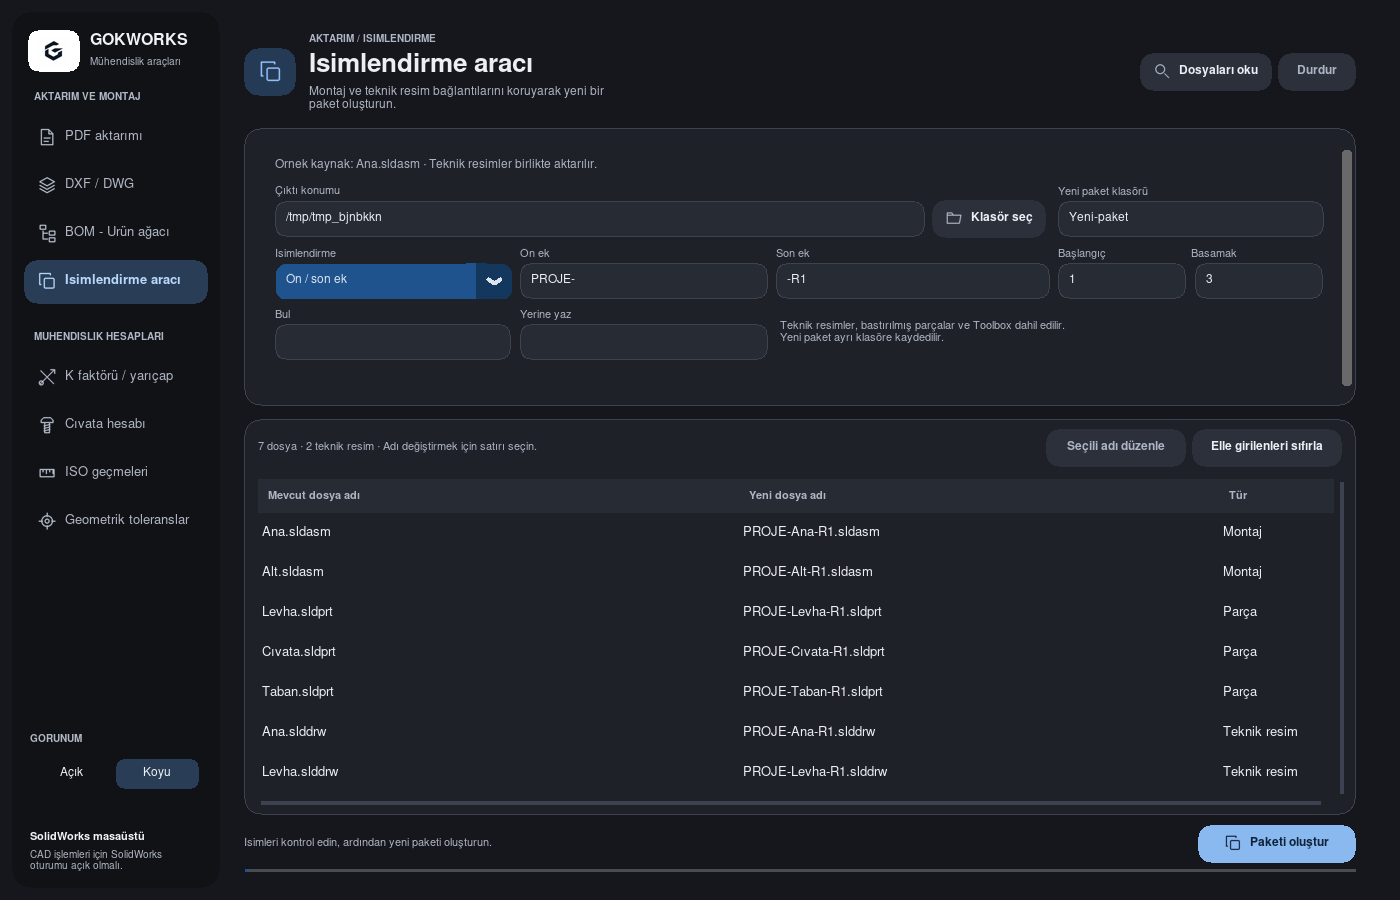
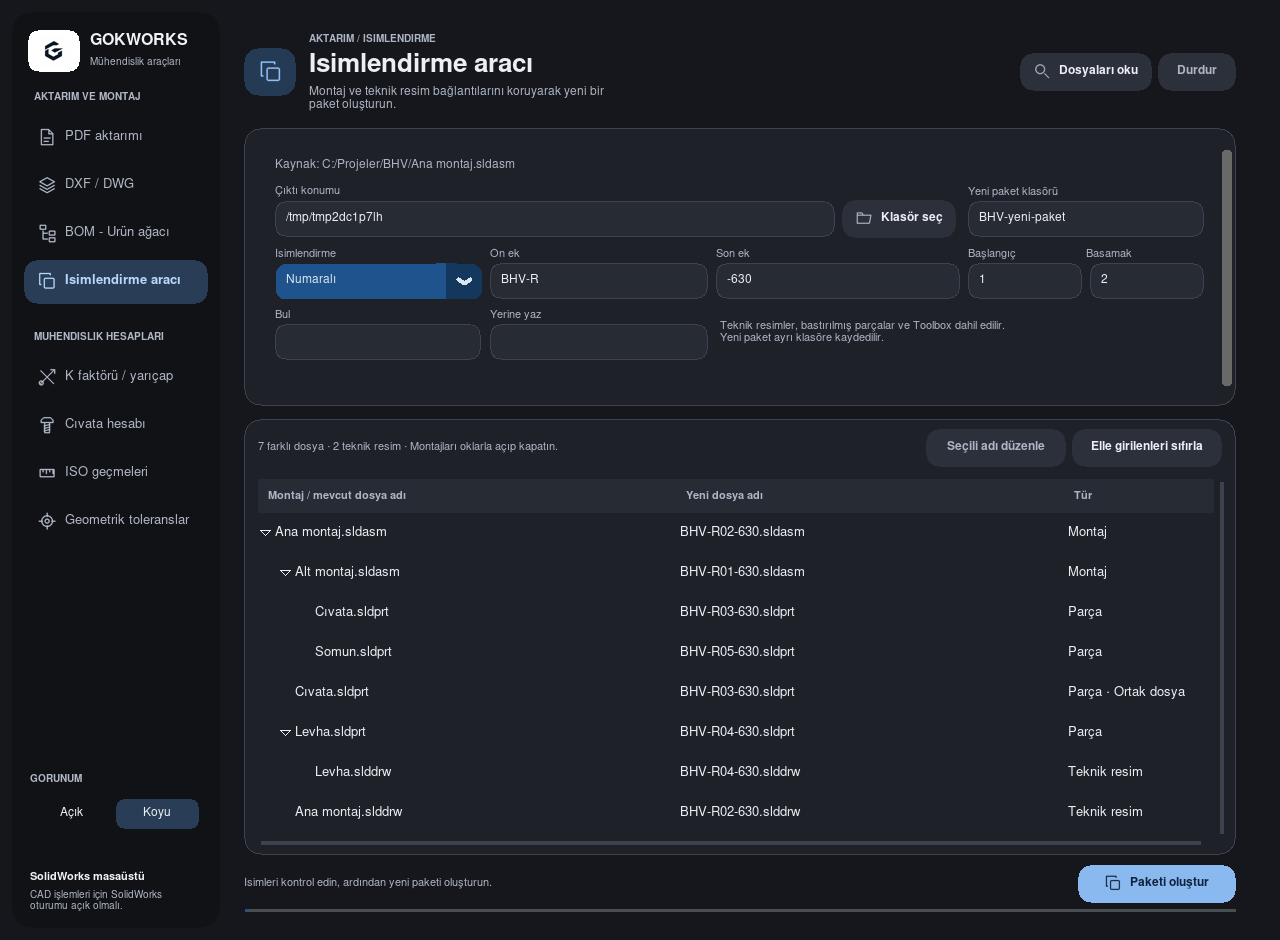
Show naming preview as an expandable assembly tree

diff --git a/naming/window.py b/naming/window.py
@@ -12,6 +12,7 @@ import customtkinter as ctk
 from gui.rendering import configure_changed, hide_grid
 from gui.theme import PANEL, INPUT, BORDER, TEXT, MUTED, RED, AMBER, SUCCESS, UI_FONT
 from naming.exporter import NameCollision, Rules, plan_names, worker
+from naming.hierarchy import document_rows
 
 
 class NamingView:
@@ -103,8 +104,8 @@ class NamingView:
         widgets['edit'].grid(row=0, column=1, padx=(6, 0))
         widgets['reset'] = self._button(toolbar, 'Elle girilenleri sıfırla', self._reset_naming_overrides, width=150)
         widgets['reset'].grid(row=0, column=2, padx=(6, 0))
-        table = ttk.Treeview(card, columns=('old', 'new', 'kind'), show='headings', selectmode='browse', style='Gok.Treeview')
-        for key, title, width in (('old', 'Mevcut dosya adı', 300), ('new', 'Yeni dosya adı', 300), ('kind', 'Tür', 115)):
+        table = ttk.Treeview(card, columns=('new', 'kind'), show='tree headings', selectmode='browse', style='Gok.Treeview')
+        for key, title, width in (('#0', 'Montaj / mevcut dosya adı', 330), ('new', 'Yeni dosya adı', 300), ('kind', 'Tür', 150)):
             table.heading(key, text=title, anchor='w')
             table.column(key, width=width, minwidth=100, stretch=key != 'kind')
         table.grid(row=1, column=0, sticky='nsew', padx=(12, 0))
@@ -113,7 +114,7 @@ class NamingView:
         hbar = ctk.CTkScrollbar(card, orientation='horizontal', command=table.xview, height=10, fg_color=PANEL, button_color=BORDER)
         hbar.grid(row=2, column=0, sticky='ew', padx=12, pady=(0, 8))
         table.configure(yscrollcommand=bar.set, xscrollcommand=hbar.set)
-        table.bind('<Double-1>', lambda event: self._edit_naming_row())
+        table.bind('<Double-1>', self._double_click_naming_row)
         table.bind('<Return>', lambda event: self._edit_naming_row())
         table.bind('<<TreeviewSelect>>', lambda event: self._naming_buttons())
         widgets['table'] = table
@@ -186,7 +187,7 @@ class NamingView:
             self.naming_plan = plan_names(self.naming_snapshot, destination, rules, self.naming_overrides)
             widgets['valid'] = bool(values['parent'] and Path(values['parent']).is_dir() and not destination.exists())
             draws = sum(doc.kind == 'Teknik resim' for doc in self.naming_snapshot.documents)
-            widgets['summary'].configure(text=f'{len(self.naming_plan)} dosya · {draws} teknik resim · Adı değiştirmek için satırı seçin.')
+            widgets['summary'].configure(text=f'{len(self.naming_plan)} farklı dosya · {draws} teknik resim · Montajları oklarla açıp kapatın.')
             widgets['status'].configure(text='İsimleri kontrol edin, ardından yeni paketi oluşturun.' if widgets['valid'] else
                                           'Çıktı konumunu ve kullanılmamış bir paket klasörü adı seçin.', text_color=MUTED)
         except NameCollision as error:
@@ -205,8 +206,16 @@ class NamingView:
         previous = widgets.pop('render_id', None)
         if previous is not None:
             self.after_cancel(previous)
-        widgets['render'] = iter(enumerate(self.naming_plan))
-        widgets['table'].delete(*widgets['table'].get_children())
+        table = widgets['table']
+        if widgets.get('hierarchy_snapshot') is not self.naming_snapshot:
+            widgets['hierarchy_snapshot'] = self.naming_snapshot
+            widgets['hierarchy_rows'] = document_rows(self.naming_snapshot)
+        rows = widgets['hierarchy_rows'] if self.naming_plan else ()
+        widgets['row_indices'] = {row.iid: row.index for row in rows}
+        # Updating names in place preserves collapsed branches, selection and scroll.
+        widgets['render'] = iter(rows)
+        if not rows:
+            table.delete(*table.get_children())
         self._paint_naming_rows()
         self._naming_buttons()
 
@@ -216,14 +225,35 @@ class NamingView:
         widgets = self.naming_widgets
         widgets.pop('render_id', None)
         deadline = time.perf_counter()+.006
-        for index, entry in widgets['render']:
-            widgets['table'].insert('', 'end', iid=str(index), values=(PureWindowsPath(entry.source).name,
-                PureWindowsPath(entry.destination).name, self.naming_snapshot.documents[index].kind))
+        for row in widgets['render']:
+            entry = self.naming_plan[row.index]
+            kind = self.naming_snapshot.documents[row.index].kind
+            if row.shared:
+                kind += ' · Ortak dosya'
+            elif row.reference:
+                kind += ' · Referans'
+            table = widgets['table']
+            content = dict(text=PureWindowsPath(entry.source).name,
+                           values=(PureWindowsPath(entry.destination).name, kind))
+            if table.exists(row.iid):
+                table.item(row.iid, **content)
+            else:
+                table.insert(row.parent, 'end', iid=row.iid, open=True, **content)
             if time.perf_counter() >= deadline:
                 widgets['render_id'] = self.after(8, self._paint_naming_rows)
                 return
         widgets.pop('render')
         self._naming_buttons()
+
+    def _double_click_naming_row(self, event):
+        table = self.naming_widgets['table']
+        if 'indicator' in table.identify_element(event.x, event.y):
+            return
+        row = table.identify_row(event.y)
+        if row:
+            table.selection_set(row)
+            self._edit_naming_row()
+        return 'break'
 
     def _edit_naming_row(self):
         if self.busy or not self.naming_plan or 'render' in self.naming_widgets:
@@ -231,8 +261,9 @@ class NamingView:
         rows = self.naming_widgets['table'].selection()
         if not rows:
             return
-        entry = self.naming_plan[int(rows[0])]
-        doc = self.naming_snapshot.documents[int(rows[0])]
+        index = self.naming_widgets['row_indices'][rows[0]]
+        entry = self.naming_plan[index]
+        doc = self.naming_snapshot.documents[index]
         if doc.kind == 'Ek dosya':
             return
         name = simpledialog.askstring('Dosya adını düzenle',
@@ -261,7 +292,8 @@ class NamingView:
         widgets['save'].configure(state='normal' if ready else 'disabled')
         rows = widgets['table'].selection()
         can_edit = (not self.busy and bool(self.naming_plan) and bool(rows) and
-                    self.naming_snapshot.documents[int(rows[0])].kind != 'Ek dosya')
+                    rows[0] in widgets.get('row_indices', {}) and
+                    self.naming_snapshot.documents[widgets['row_indices'][rows[0]]].kind != 'Ek dosya')
         widgets['edit'].configure(state='normal' if can_edit else 'disabled')
 
     def _naming_busy(self, value):

diff --git a/tests/test_naming_window.py b/tests/test_naming_window.py
@@ -26,10 +26,15 @@ class NamingWindowTests(GuiTestCase):
             self.wait_idle()
         self.settle()
 
+    def table_rows(self, parent=''):
+        table = self.app.naming_widgets['table']
+        return [row for child in table.get_children(parent)
+                for row in (child, *self.table_rows(child))]
+
     def test_scan_manual_model_and_paired_drawing_edit_then_save_package(self):
         self.scan()
         widgets = self.app.naming_widgets
-        self.assertEqual(len(widgets['table'].get_children()), 7)
+        self.assertEqual(len(self.table_rows()), 7)
         self.assertEqual(widgets['save'].cget('state'), 'normal')
         index = next(i for i, entry in enumerate(self.app.naming_plan) if Path(entry.source).name == 'Levha.sldprt')
         widgets['table'].selection_set(str(index))
@@ -77,7 +82,8 @@ class NamingWindowTests(GuiTestCase):
         root.write_text(json.dumps(content))
         self.scan()
         widgets = self.app.naming_widgets
-        self.assertEqual(len(widgets['table'].get_children()), 8)
+        self.assertEqual(len(set(widgets['row_indices'].values())), 8)
+        self.assertEqual(len(self.table_rows()), 9)  # Both derived parts reference the same base file.
         self.assertEqual(widgets['save'].cget('state'), 'disabled')
         index = next(i for i, entry in enumerate(self.app.naming_plan) if entry.source == str(second))
         widgets['table'].selection_set(str(index))
@@ -87,6 +93,41 @@ class NamingWindowTests(GuiTestCase):
         with patch('naming.exporter.connect_to_solidworks', return_value=self.sw):
             widgets['save'].invoke()
             self.wait_idle()
+        self.assertEqual(self.sw.saves, 1)
+
+    def test_assembly_tree_shared_edit_preserves_branches_and_pack_order(self):
+        root = self.root/'Ana.sldasm'
+        content = json.loads(root.read_text())
+        content['refs'].append(str(self.root/'Cıvata.sldprt'))
+        root.write_text(json.dumps(content))
+        self.scan()
+        widgets = self.app.naming_widgets
+        table = widgets['table']
+        ids = {Path(doc.path).name: str(i) for i, doc in enumerate(self.app.naming_snapshot.documents)}
+        self.assertEqual(table.parent(ids['Alt.sldasm']), ids['Ana.sldasm'])
+        self.assertEqual(table.parent(ids['Cıvata.sldprt']), ids['Alt.sldasm'])
+        self.assertEqual(table.parent(ids['Levha.sldprt']), ids['Ana.sldasm'])
+        self.assertEqual(table.parent(ids['Levha.slddrw']), ids['Levha.sldprt'])
+        self.assertEqual(table.parent(ids['Ana.slddrw']), ids['Ana.sldasm'])
+        # Derived-file dependencies must not appear as extra assembly components.
+        self.assertEqual(table.parent(ids['Taban.sldprt']), ids['Levha.sldprt'])
+        self.assertIn('Referans', table.set(ids['Taban.sldprt'], 'kind'))
+        repeated = next(row for row in self.table_rows() if row.startswith(ids['Cıvata.sldprt']+':'))
+        self.assertEqual(table.parent(repeated), ids['Ana.sldasm'])
+        self.assertIn('Ortak dosya', table.set(repeated, 'kind'))
+        table.item(ids['Alt.sldasm'], open=False)
+        table.selection_set(repeated)
+        with patch('naming.window.simpledialog.askstring', return_value='BHV-R01-630'):
+            self.app._edit_naming_row()
+        self.assertFalse(table.item(ids['Alt.sldasm'], 'open'))
+        self.assertEqual(table.selection(), (repeated,))
+        for row in (repeated, ids['Cıvata.sldprt']):
+            self.assertEqual(table.set(row, 'new'), 'BHV-R01-630.sldprt')
+        self.assertEqual([entry.source for entry in self.app.naming_plan], self.sw.paths)
+        with patch('naming.exporter.connect_to_solidworks', return_value=self.sw):
+            widgets['save'].invoke()
+            self.wait_idle()
+        self.assertEqual(list(self.sw.last_mapping), self.sw.paths)
         self.assertEqual(self.sw.saves, 1)
 
     def test_cached_page_and_rules_survive_theme_and_small_window_scaling(self):

diff --git a/naming/hierarchy.py b/naming/hierarchy.py
@@ -1,0 +1,73 @@
+"""Display saved file relationships without changing the Pack and Go order."""
+
+from dataclasses import dataclass
+from pathlib import PureWindowsPath
+
+from bom.exporter import name_key
+from naming.exporter import path_key
+
+
+@dataclass(frozen=True)
+class Row:
+    iid: str
+    parent: str
+    index: int
+    shared: bool = False
+    reference: bool = False
+
+
+def document_rows(snapshot):
+    """Show shared files under each parent, expanding their contents once.
+
+    These are file relationships, not component quantities/configurations.
+    Iterative traversal also handles deep or cyclic reference graphs safely.
+    """
+    docs = snapshot.documents
+    indices = {path_key(doc.path): index for index, doc in enumerate(docs)}
+
+    def order(index):
+        doc = docs[index]
+        return (doc.kind != 'Montaj', doc.kind == 'Teknik resim',
+                name_key(PureWindowsPath(doc.path).name), path_key(doc.path))
+
+    children = [[] for _ in docs]
+    for index, doc in enumerate(docs):
+        refs = {indices[path_key(ref)] for ref in doc.dependencies if path_key(ref) in indices}
+        if doc.kind in ('Montaj', 'Parça'):
+            children[index].extend(ref for ref in refs if docs[ref].kind in ('Montaj', 'Parça'))
+        elif doc.kind == 'Teknik resim' and index != indices.get(path_key(snapshot.root)):
+            models = [ref for ref in refs if docs[ref].kind in ('Montaj', 'Parça')]
+            if models:
+                stem = path_key(str(PureWindowsPath(doc.path).with_suffix('')))
+                owner = min(models, key=lambda ref: (
+                    path_key(str(PureWindowsPath(docs[ref].path).with_suffix(''))) != stem, order(ref)))
+                children[owner].append(index)
+    for values in children:
+        values.sort(key=order)
+
+    root = indices.get(path_key(snapshot.root))
+    starts = sorted(range(len(docs)), key=order)
+    if root is not None:
+        starts.remove(root)
+        starts.insert(0, root)
+    seen, rows = set(), []
+    for start in starts:
+        if start in seen:
+            continue
+        stack = [(start, '', False)]
+        while stack:
+            index, parent, reference = stack.pop()
+            shared = index in seen
+            iid = f'{index}:{len(rows)}' if shared else str(index)
+            rows.append(Row(iid, parent, index, shared, reference))
+            if shared:
+                continue
+            seen.add(index)
+            # An active drawing is the entry point to its referenced models.
+            descendants = children[index]
+            if index == root and docs[index].kind == 'Teknik resim':
+                descendants = sorted({indices[path_key(ref)] for ref in docs[index].dependencies
+                                      if path_key(ref) in indices}, key=order)
+            for child in reversed(descendants):
+                stack.append((child, iid, docs[index].kind == 'Parça' and docs[child].kind != 'Teknik resim'))
+    return tuple(rows)

diff --git a/tests/test_naming_hierarchy.py b/tests/test_naming_hierarchy.py
@@ -1,0 +1,38 @@
+"""Reference graph edge cases in the naming tree."""
+
+import unittest
+
+from naming.exporter import Document, Snapshot
+from naming.hierarchy import document_rows
+
+
+class NamingHierarchyTests(unittest.TestCase):
+    def test_cycles_shared_branches_and_unrelated_files_remain_finite(self):
+        snapshot = Snapshot('C:/Ana.sldasm', (
+            Document('C:/Ana.sldasm', ('C:/Alt.sldasm', 'C:/Vida.sldprt'), ()),
+            Document('C:/Alt.sldasm', ('c:/ANA.SLDASM', 'C:/Vida.sldprt', 'C:/Vida.sldprt'), ()),
+            Document('C:/Vida.sldprt', (), ()),
+            Document('C:/Ek.txt', (), ()),
+        ))
+        rows = document_rows(snapshot)
+        self.assertEqual({row.index for row in rows}, {0, 1, 2, 3})
+        self.assertEqual(len(rows), 6)
+        by_id = {row.iid: row for row in rows}
+        self.assertEqual(by_id['1'].parent, '0')
+        self.assertEqual(by_id['2'].parent, '1')
+        self.assertEqual(by_id['3'].parent, '')
+        for row in rows:
+            if row.shared:
+                self.assertFalse(any(other.parent == row.iid for other in rows))
+
+    def test_drawing_root_and_deep_models_do_not_recurse(self):
+        count = 1200
+        paths = [f'C:/M{i}.sldasm' for i in range(count)]
+        docs = [Document(path, (paths[i+1],) if i+1 < count else (), ())
+                for i, path in enumerate(paths)]
+        drawing = Document('C:/Ana.slddrw', (paths[0],), ())
+        rows = document_rows(Snapshot(drawing.path, (*docs, drawing)))
+        self.assertEqual(len(rows), count+1)
+        self.assertEqual(rows[0].index, count)
+        self.assertEqual(rows[1].parent, str(count))
+        self.assertEqual(rows[-1].parent, str(count-2))

diff --git a/naming/README.md b/naming/README.md
@@ -11,6 +11,10 @@ SolidWorks dosyalarını yeni adlarla **ayrı bir Pack and Go paketine** aktarı
 5. Eski–yeni adları kontrol edin. Tek bir dosya için satırı seçip **Seçili adı düzenle** kullanın. Aynı klasördeki aynı adlı model/teknik resim çifti, modelin yeni adını paylaşır; bağlantılar ayrıca dosya yolu üzerinden eşlenir.
 6. **Paketi oluştur** seçin. Başarıda bütün dosya referansları kontrol edilmiş olur. Paketin içinde `GOKWORKS-isimlendirme.json` eski/yeni yolları ve yeni kök dosyayı gösterir.
 
+Önizleme montaj ağacı olarak gösterilir: parçalar ve alt montajlar bağlı oldukları montajın altında, teknik resimler ilgili modelin altında görünür. Dalları oklarla açıp kapatabilirsiniz. Birden fazla yerde kullanılan dosya **Ortak dosya** olarak işaretlenir; içeriği ilk dalda açılır ve adını herhangi bir satırdan değiştirmek bütün tekrarları günceller. Parçaya bağlı türetilmiş dosyalar **Referans** olarak gösterilir. Bu ağaç dosya bağlantılarını gösterir; bileşen adetleri veya konfigürasyon bazlı BOM değildir. Numaralar farklı dosyalara verilmeye devam eder ve Pack and Go belge sırası korunur. Adları düzenlerken kapalı dallar, seçili satır ve kaydırma konumu korunur.
+
+Montaj ağacı güncellemesinde 8 ilgili kontrol geçti: ortak dosyanın bütün satırlardan düzenlenmesi, montaj/alt montaj/resim yerleşimi, döngülü ve 1.200 seviyeli referans grafikleri, Pack and Go sırasının korunması, ad çakışmaları, sayfa önbelleği, tema/ölçek, kayıt ve iptal. Açık/koyu tema örnekleri bu görünümle yenilendi; gerçek SolidWorks doğrulaması yapılmadı.
+
 Teknik resimler, bastırılmış bileşenler ve Toolbox dosyaları dahil edilir. Teknik resim sayısı önizlemede görünür. SolidWorks Pack and Go'nun bulmadığı, başka klasörlerdeki resimlerin bu pakete otomatik eklendiği iddia edilmez; kaynak proje korunduğu için bu dosyaların mevcut modele olan bağlantıları yerinde kalır. Simülasyon sonuçları bu araçta paketlenmez.
 
 Küçük ekranda ayarlar ayrı kaydırılır; önizleme tablosu ve paket düğmesi yerini korur. Açık/koyu tema, %125 ölçek, sayfa önbelleği ve kuralların kaydedilmesi desteklenir. Katı isim çakışmalarında tablo silinmez: dosyalar elle düzeltilebilir, aktarım adlar benzersiz olana kadar kapalıdır.
